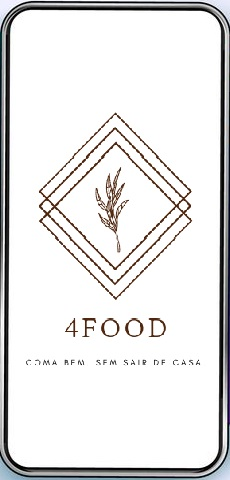
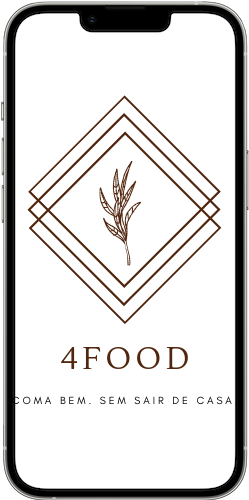
body-atualizado

Changed region(s): [[0.0, 0.0, 1.0, 1.0]]

diff --git a/Projeto/style.css b/Projeto/style.css
@@ -3,6 +3,10 @@
     padding: 0;
 }
 
+body {
+    font-family: 'Tiro Gurmukhi', serif;
+}
+
 header {
     display: flex;
     flex-direction: column;
@@ -21,7 +25,6 @@ header > div > img {
 .nav {
     width: 200px;
     height: 100px;
-    font-family:Verdana, Geneva, Tahoma, sans-serif;
     font-size: 20px;
     border-radius: 20px;
     border-color: #A18A7D;
@@ -66,7 +69,7 @@ header > div > img {
     display: flex;
     flex-direction: column;
     justify-content: center;
-    align-items: flex-end;
+    text-align: right;
     font-size: 20px;
     gap: 20px;
 }
@@ -85,7 +88,7 @@ header > div > img {
 }
 
 .segunda-secao{
-    background-color: #D1EDEC;
+    
     height: 100%;
 }
 
@@ -93,7 +96,6 @@ header > div > img {
     display: grid;
     grid-template-columns: 1fr 1fr 1fr;
     justify-content: space-between;
-
 }
 
 .titulo-section {
@@ -106,7 +108,7 @@ header > div > img {
     display: flex;
     flex-direction: column;
     align-items: center;
-    justify-content: center;
+    justify-content: flex-start;
     padding: 10%;
     gap: 15px;
     font-size: 20px;
@@ -124,10 +126,6 @@ header > div > img {
 }
 
 .terceira-secao {
-    background-color: #6DA19F
-}
-
-.quarta-secao {
     background-color: #D1EDEC;
 }
 
@@ -148,10 +146,41 @@ header > div > img {
 }
 
 #lupa {
+    position: absolute;
     width: 30px;
+    top: 15px;
+    left: 15px;
+}
+
+.quinta-secao {
+    background-image: url("/img/maps.jpg");
+    background-repeat: no-repeat;
+    background-size: cover;
 }
 
 .descobrir-localizacao {
     display: flex;
     justify-content: center;
+}
+
+body > section {
+    padding: 60px 0px;
+}
+
+.localizacao {
+    background-color: white;
+    border-radius: 20px;
+    width: 70%;
+    height: 250px;
+    margin: 0 auto;
+}
+
+.pesquisar {
+    position: relative;
+}
+
+.pesquisar > input {
+    padding: 20px 20px 20px 60px;
+    height: 20px;
+    font-size: 24px;
 }

diff --git a/Projeto/index.html b/Projeto/index.html
@@ -7,6 +7,9 @@
     <meta name="viewport" content="width=device-width, initial-scale=1.0">
     <link rel="stylesheet" href="style.css">
     <title>4FOOD</title>
+    <link rel="preconnect" href="https://fonts.googleapis.com">
+    <link rel="preconnect" href="https://fonts.gstatic.com" crossorigin>
+    <link href="https://fonts.googleapis.com/css2?family=Tiro+Gurmukhi&display=swap" rel="stylesheet">
 </head>
 <header>
     <div>
@@ -104,24 +107,21 @@
             </div>
         </div>
     </section>
-    <section>
+    <section class="quinta-secao">
         <div class="container">
             <div class="localizacao">
                 <div>
                     <h2 class="titulo-section">QUER SABER SE ATENDEMOS NA SUA REGIÃO?</h2>
                 </div>
                 <div class="descobrir-localizacao">
-                    <div>
+                    <div class="pesquisar">
                         <img id="lupa" src="/img/lupa.svg" alt="imagem lupa de pesquisa">
-                    </div>
-                    <div>
-                        <input placeholder="Digite seu endereço aqui e descubra!">
+                        <input placeholder="Digite seu endereço">
                     </div>
                 </div>
             </div>
         </div>
     </section>
-
 </body>
 
 </html>
